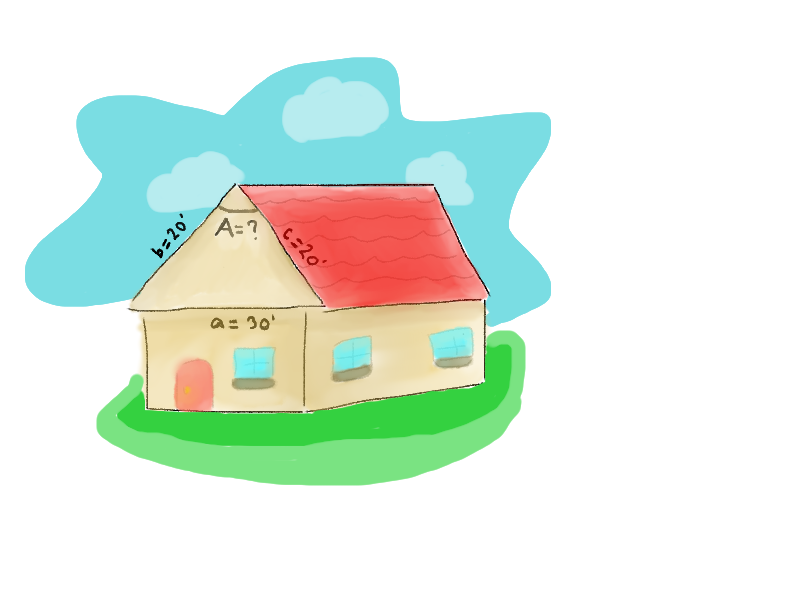
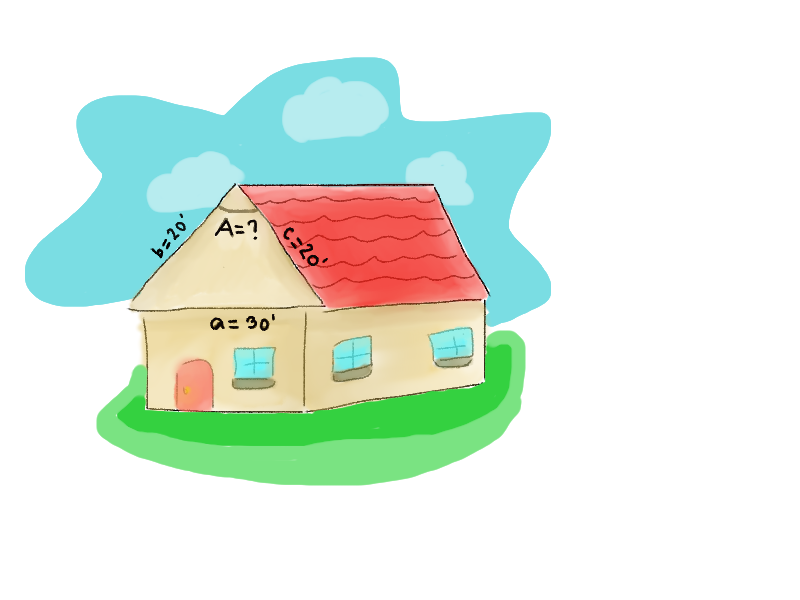
Fix responsiveness and edit drawing

diff --git a/index.html b/index.html
@@ -11,6 +11,13 @@
     <link rel="stylesheet" href="css/main.css">
 </head>
 <body>
+    <nav>
+        <ul>
+            <li><a href="#history">History</a></li>
+            <li><a href="application">Application</a></li>
+            <li><a href="example">Example</a></li>
+        </ul>
+    </nav>
     <header class="jumbotron mx-0">
         <h1>The Law of Cosines</h1>
         <h6>Also known as Cosine Rule</h6>
@@ -26,7 +33,7 @@
                 <p class="quote">“The laws of nature are but the mathematical thoughts of God.”</p>
                 <p class="text-center">- Euclid</p>
                 <p>
-                    Even though the cosine did not yet exist in his time, <b>Euclid’s ‘Elements’</b>, dating back to the 3rd century BC, contained an early geometric theorem equivalent to the law of cosines. In the 10th century, Persian astronomer and mathematician <b>Al-Battani</b> generalized Euclid’s result to spherical geometry, which permitted him to calculate the angular distances between stars. In the 15th century, Al-Kashi in Samarqand provided the first explicit statement of the law of cosines in a form suitable for triangulation.
+                    Even though the cosine did not yet exist in his time, <b>Euclid’s ‘Elements’</b>, dating back to the 3rd century BC, contained an early geometric theorem equivalent to the law of cosines. In the 10th century, Persian astronomer and mathematician <b>Al-Battani</b> generalized Euclid’s result to spherical geometry, which permitted him to calculate the angular distances between stars. In the 15th century, <b>Al-Kashi</b> in Samarqand provided the first explicit statement of the law of cosines in a form suitable for triangulation.
                 </p>
             </div>
         </article>
@@ -38,10 +45,10 @@
             <h6>What is it used for?</h6>
             <p>The cosine rule is useful for finding:</p>
             <ul>
-                <li>
+                <li class="ml-5">
                     the third side of a triangle when <b>two</b> sides and the <b>angle</b> between them are known
                 </li>
-                <li>
+                <li class="ml-5">
                     the angle of a triangle when <b>all three</b> sides are known
                 </li>
             </ul>
@@ -53,7 +60,7 @@
                         <img class="equation" src="images/equation-two.gif" alt="">
                         is used for finding angles
                     </li>
-                    <li class="col-md-12">
+                    <li class="col-md-12 my-5">
                         <p>In this example, <b>a,b,c</b> are used to represent the sides of a triangle, while <b>A</b> is used to represent the angle.</p>
                     </li>
                     <li class="col-md-12 text-center">
@@ -76,7 +83,7 @@
                 </div>
                 <div class="col-md-6">
                     <p>For this problem, the formula: <img class="equation" src="images/equation-two.gif" alt=""> will be used.</p>
-                    <img src="images/cosine_2.png" alt="">
+                    <img class="my-4" src="images/cosine_2.png" alt="">
                     <p>Therefore, the pitch of the roof is <b>97.9 degree.</b></p>
                 </div>
             </div>
@@ -84,7 +91,7 @@
     </section>
 
     <footer>
-        <p>Copyright © 2020 by Kim Zuniga. Project for MATH8</p>
+        <p class="pt-3">Copyright © 2020 by Kim Zuniga. Project for MATH8</p>
     </footer>
     
 </body>

diff --git a/css/main.css b/css/main.css
@@ -1,6 +1,33 @@
+* {
+    padding: 0;
+}
+
 body {
     background-color: beige;
     font-family: 'Raleway', sans-serif;
+}
+
+nav {
+    float: right;
+    margin-top: 1em;
+}
+
+nav li {
+    display: inline;
+    list-style: none;
+    color: white;
+    margin-right: 2em;
+    text-shadow: 1px 1px 1px black;
+    font-weight: bold;
+}
+
+a {
+    color: white;
+}
+
+a:hover {
+    color: grey;
+    text-decoration: none;
 }
 
 header.jumbotron {
@@ -9,6 +36,7 @@ header.jumbotron {
     background-size: cover;
     background-position: left;
     box-shadow: black 5px 5px 5px;
+    padding-top: 4em;
 }
 
 header.jumbotron h1, header.jumbotron h6 {
@@ -44,6 +72,10 @@ article.example p {
     text-indent: 2em;
 }
 
+article.example img {
+    max-width: 100%;
+}
+
 article.history img {
     width:100%;
 }
@@ -70,7 +102,10 @@ hr.style-seven:before { /* Not really supposed to work, but does */
 footer {
     text-align: center;
     font-size: 14px;
+    margin-top: 1em;
     padding: 1em;
+    background-color: rgb(80, 67, 67);
+    color: whitesmoke;
 }
 
 .quote {
@@ -88,5 +123,9 @@ footer {
 @media (max-width: 768px) {
     article.history div p {
         padding-top: 1em;
+    }
+
+    img.equation {
+        margin-top: 1.5em;
     }
 }
